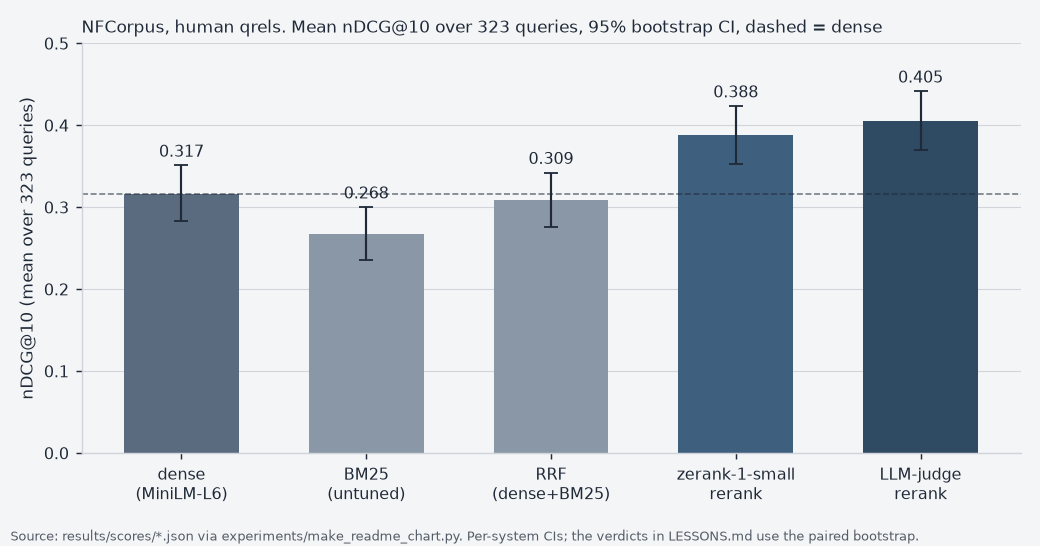
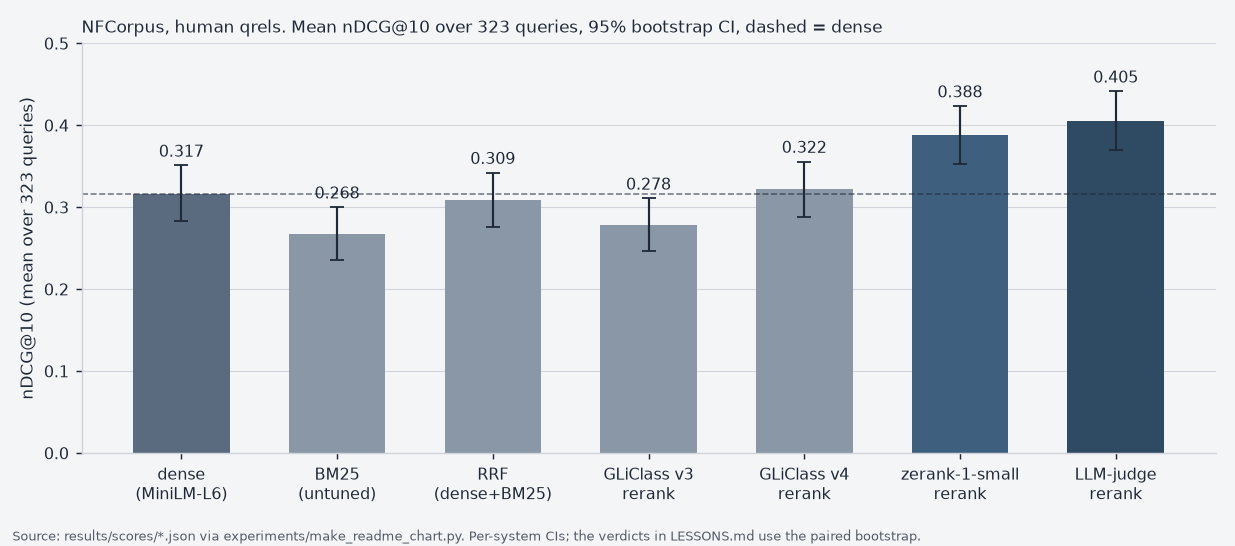
README refresh: GLiClass rows in table and chart, Status rewrite, layout, drop "frozen"

diff --git a/experiments/make_readme_chart.py b/experiments/make_readme_chart.py
@@ -31,6 +31,8 @@ SYSTEMS = [
     ("dense", "dense\n(MiniLM-L6)"),
     ("bm25", "BM25\n(untuned)"),
     ("rrf", "RRF\n(dense+BM25)"),
+    ("rerank_gliclass", "GLiClass v3\nrerank"),
+    ("rerank_gliclass_v4", "GLiClass v4\nrerank"),
     ("rerank_zerank", "zerank-1-small\nrerank"),
     ("rerank_llm", "LLM-judge\nrerank"),
 ]
@@ -65,13 +67,13 @@ def main() -> None:
 
     # ── chart ──────────────────────────────────────────────────────────────
     bg, fg, grid = "#f4f5f7", "#1f2937", "#d1d5db"
-    bar = ["#5b6b7f", "#8a97a6", "#8a97a6", "#3f5f7f", "#2f4a63"]
+    bar = ["#5b6b7f", "#8a97a6", "#8a97a6", "#8a97a6", "#8a97a6", "#3f5f7f", "#2f4a63"]
     labels = [lab for _, lab in SYSTEMS]
     means = [r[1] for r in rows]
     lo = [r[1] - r[2][0] for r in rows]
     hi = [r[2][1] - r[1] for r in rows]
 
-    fig, ax = plt.subplots(figsize=(8, 4.2), dpi=130)
+    fig, ax = plt.subplots(figsize=(9.5, 4.2), dpi=130)
     fig.patch.set_facecolor(bg)
     ax.set_facecolor(bg)
     x = range(len(rows))

diff --git a/README.md b/README.md
@@ -7,7 +7,7 @@
 ![tests](https://github.com/Michiel-DK/rag-retrieval-lab/actions/workflows/tests.yml/badge.svg)
 
 **Retrieval methods, explained by running them: predictions written down first.**
-**The case with receipts (frozen write-up): [`SHOWCASE.md`](SHOWCASE.md).**
+**The write-up of notebooks 01 to 04, with receipts: [`SHOWCASE.md`](SHOWCASE.md).**
 
 Every RAG tutorial shows you hybrid search, RRF fusion, and an LLM reranker, then tells
 you they help. This repo runs each one on a real benchmark and reports what actually
@@ -31,6 +31,8 @@ queries, human qrels) by `experiments/make_readme_chart.py`; the same numbers ar
 | dense (MiniLM-L6, title+text) | 0.3167 | baseline | 0.1550 | 0.2508 |
 | BM25 (untuned, see note) | 0.2678 | −0.049 (−0.072 to −0.027), p ≈ 0 | 0.1241 | 0.1792 |
 | RRF (dense + BM25) | 0.3093 | −0.007 (−0.024 to +0.009), null | 0.1477 | 0.2521 |
+| GLiClass v3 rerank of the dense top-50 | 0.2781 | −0.039 (−0.060 to −0.018), p < 0.001 | 0.1245 | 0.2508 |
+| GLiClass v4 rerank of the dense top-50 | 0.3218 | +0.005 (−0.015 to +0.025), null | 0.1529 | 0.2508 |
 | zerank-1-small rerank of the dense top-50 | 0.3881 | +0.071 (+0.055 to +0.089), p ≈ 0 | 0.1819 | 0.2508 |
 | LLM-judge rerank of the dense top-50 | **0.4052** | +0.089 (+0.071 to +0.106), p ≈ 0 | 0.1865 | 0.2508 |
 
@@ -39,7 +41,7 @@ list and no punctuation stripping (`ragexp/retrieve.py`). Over the 323 test quer
 73 of the 1,064 query tokens start or end with a non-alphanumeric character, such as
 `cancer?`. A token like that matches only an identically punctuated document token.
 The 0.2678 is a ceiling for that preprocessing, not a
-verdict on BM25. Note on recall@50: the two rerankers permute the dense top-50, so their
+verdict on BM25. Note on recall@50: the rerankers permute the dense top-50, so their
 recall@50 is identical to dense by construction; recall@10 moves because the reranker
 changes which of those 50 reach the top-10.
 
@@ -158,7 +160,10 @@ ragexp/          the library: importable, unit-testable, no notebook magic
   embed.py       sentence-transformers wrapper              [done]
   retrieve.py    dense / bm25 / rrf / pooling               [done]
   runs.py        per-query scoring + committed score files  [done]
-  rerank.py      LLM judge + off-the-shelf reranker         [done]
+  rerank.py      LLM judge, zerank, GLiClass rerankers      [done]
+  adapter.py     linear query adapter (InfoNCE), nb 05      [done]
+  ltr.py         LETOR loading + LambdaMART helpers, nb 06  [done]
+  contextualize.py  LLM context lines for chunks, nb 07     [done]
 notebooks/       the teaching layer: narrative, plots, lessons (all seven run)
 experiments/     scripts that produce the committed numbers
 results/         committed snapshots (so notebooks don't need to re-run everything)
@@ -171,19 +176,24 @@ claims are testable and the notebooks stay readable.
 
 ## Status
 
-All seven notebooks have run. The library is tested. The notebooks are executed with
-outputs committed. Every open prediction resolved. 03 has RRF nulling against dense.
-04 has nDCG rising while recall@50 stays frozen, as it structurally must. 05 splits:
-pooling beats title-only but nulls against dense, and the adapter nulls. 06 has
-LambdaMART beating the best single feature. 07 has LLM-written context lines
-nulling against plain chunks, and every chunk arm tying dense.
+All seven notebooks have run, with outputs committed, and every pre-registered prediction
+has resolved. `LESSONS.md` and its predictions→results table cover all seven.
 
-Notebook 04's LLM-judge grades and zerank scores are committed under
+- 03: BM25 loses to dense and RRF nulls against it.
+- 04: both rerankers lift nDCG while recall@50 stays frozen, as it structurally must. The two
+  GLiClass arms do not beat dense: v3 is below it, v4 ties it.
+- 05: pooling beats title-only but nulls against dense, and the adapter nulls.
+- 06: LambdaMART beats the best single feature.
+- 07: LLM-written context lines null against plain chunks when chunks are pooled. Ranked chunk
+  by chunk, they help, and a free title prefix helps just as much.
+
+Notebook 04's LLM-judge grades, zerank scores and GLiClass scores are committed under
 `results/rerank/`, so everything reproduces without an API key or a GPU.
 
-All seven notebooks have run. `LESSONS.md` and its predictions→results table cover all seven.
+Scope: every NFCorpus verdict is a fact about one small corpus, one small embedder
+(MiniLM-L6) and an untuned BM25. Notebook 06 is one MSLR fold with fixed settings.
 
-### Next (filed 2026-09-21)
+### Later arms (pre-registered 2026-10-29, all resolved)
 
 **Notebook 04, third reranker arm: GLiClass. Pre-registered 2026-10-29 (`bdc024b`), run the same day.**
 [`knowledgator/GLiClass`](https://github.com/Knowledgator/GLiClass) (Apache-2.0) is a zero-shot
@@ -218,13 +228,6 @@ CI [−0.0147, +0.0251], p = 0.63), and below zerank (−0.0664, CI [−0.0835, 
 (+0.0436, reported). recall@50 stayed frozen. 1,917 tied scores fall back to dense order. The sweep
 took 31,036 s on a shared laptop CPU. See the end of notebook 04.
 
-**A hosted explainer.** `SHOWCASE.md` is the frozen write-up; the sibling repo
-[rlvr-codegen](https://github.com/Michiel-DK/rlvr-codegen) hosts the same kind of page on GitHub
-Pages (`testing-the-tests.html`) and links it from its README. Do the same here from `SHOWCASE.md`
-plus the GLiClass row once it exists. It is the page the roger3000 site will link as its third
-proof tile ("we test retrieval methods before we sell them; here is what did nothing").
-Quote only numbers scored against the human qrels; never the judge-labelled 1.0000 as a result.
-
 **Notebook 07, chunk-level arm. Pre-registered 2026-10-29, before any chunk-level score was
 computed.** Notebook 07 pooled chunk vectors into one document vector. The Anthropic post ranks
 chunks on their own. Setup, fixed before running: nb 07's chunks (400-char windows, 80 overlap),
@@ -239,3 +242,12 @@ includes 0 or lies below it. Reported, not bet on: a title-prefix max arm, every
 **Result: held.** Haiku context against plain chunks, max-scored: nDCG@10 +0.0238, CI [+0.0123,
 +0.0358]. The free title prefix gains the same (+0.0245; context against title −0.0006, CI includes 0).
 See the end of notebook 07.
+
+### Next
+
+**A hosted explainer.** `SHOWCASE.md` is the write-up of notebooks 01 to 04; the sibling repo
+[rlvr-codegen](https://github.com/Michiel-DK/rlvr-codegen) hosts the same kind of page on GitHub
+Pages (`testing-the-tests.html`) and links it from its README. Do the same here from `SHOWCASE.md`
+plus the GLiClass rows. It is the page the roger3000 site will link as its third
+proof tile ("we test retrieval methods before we sell them; here is what did nothing").
+Quote only numbers scored against the human qrels; never the judge-labelled 1.0000 as a result.

diff --git a/CLAUDE.md b/CLAUDE.md
@@ -1,7 +1,7 @@
 # rag-retrieval-lab
 
 Retrieval methods explained by running them on NFCorpus, predictions written down first. Read
-`SHOWCASE.md` for the frozen write-up and `LESSONS.md` before changing any method.
+`SHOWCASE.md` for the write-up of notebooks 01 to 04 and `LESSONS.md` before changing any method.
 
 ## Bearings
 
